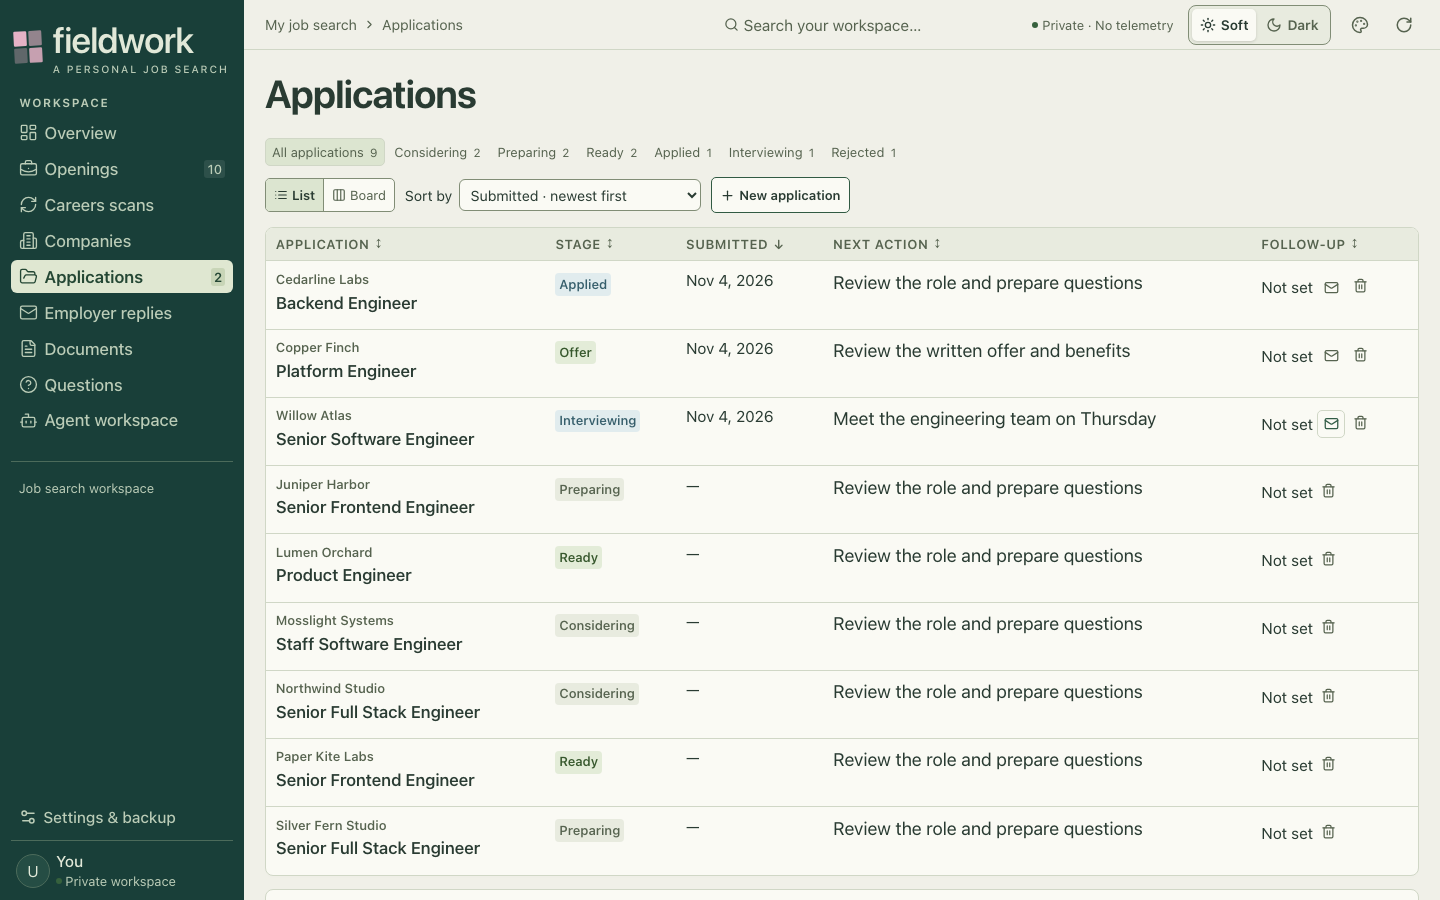
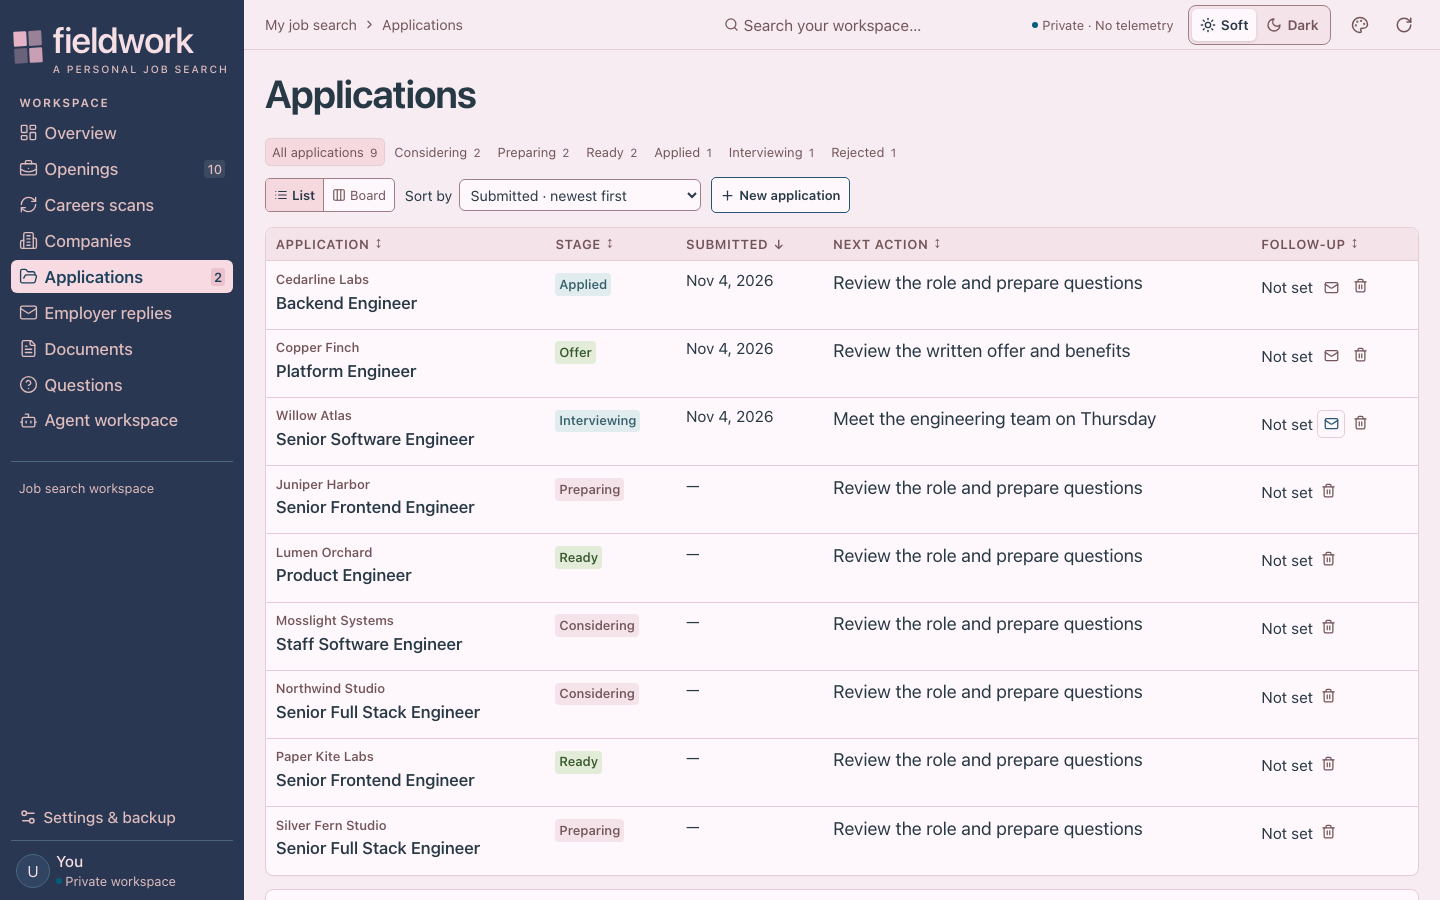
Add the MIT license; show the demo in the Rosewood Slate theme
The project is now MIT licensed. The demo seeds the author's own saved
theme as its active palette, and the README screenshots were retaken in it.

Changed region(s): [[0.0, 0.0, 0.2812, 1.0]]

diff --git a/platform/app/scripts/demo-seed.ts b/platform/app/scripts/demo-seed.ts
@@ -1,3 +1,4 @@
+import { readSavedPalette, readSavedThemes } from "../shared/palette.js";
 import { seedDemoAutofill } from "./demo-autofill.js";
 import { captureGreenhousePolicy } from "../server/opening-pull/policy.js";
 import {
@@ -54,10 +55,27 @@ const stages: ApplicationStatus[] = [
 ];
 
 /** All records, document bytes and dates are synthetic; no live adapters are used. */
+/** The owner's own saved theme, shown in the demo and the README screenshots. */
+export const demoTheme = {
+  id: "rosewood-slate",
+  name: "Rosewood Slate",
+  knobs: { hueNeutral: 360, hueBrand: 240, hueAccent: 70, chroma: 1.15 },
+};
+
 export async function seedDemo(store: Store, date = new Date()) {
   const at = (days: number) =>
     new Date(date.getTime() - days * 86400000).toISOString();
   const today = at(0);
+  const theme = demoTheme;
+  store.put("settings", "main", {
+    ...store.settings(),
+    palette: readSavedPalette({
+      id: theme.id,
+      knobs: theme.knobs,
+      revision: 1,
+    }),
+    themes: readSavedThemes({ items: [theme], revision: 1 }),
+  });
   seedOpenings(store, at);
   seedMaterials(store, today);
   seedMaterials(store, at(4), 5, "Willow Atlas");

diff --git a/platform/app/tests/demo.test.ts b/platform/app/tests/demo.test.ts
@@ -1,4 +1,6 @@
 import assert from "node:assert/strict";
+import { paletteSaveProblem, themeSaveProblem } from "../shared/palette.js";
+import { demoTheme } from "../scripts/demo-seed.js";
 import { readFileSync, rmSync, mkdtempSync, writeFileSync } from "node:fs";
 import net from "node:net";
 import os from "node:os";
@@ -71,6 +73,18 @@ test("demo is synthetic, read-only, integration-free and refuses companion/non-l
     );
     assert.equal(gmail.connected, false);
     assert.equal(gmail.checking, false);
+    const theme = demoTheme;
+    assert.deepEqual(state.settings.palette, {
+      id: theme.id,
+      knobs: theme.knobs,
+      revision: 1,
+    });
+    assert.deepEqual(state.settings.themes, { items: [theme], revision: 1 });
+    assert.equal(themeSaveProblem(theme), undefined);
+    assert.equal(
+      paletteSaveProblem(state.settings.palette, state.settings.themes.items),
+      undefined,
+    );
     assert.equal(state.greenhousePull.added, 5);
     assert.equal(state.greenhousePull.status, "paused");
     assert.equal(state.greenhousePull.policy.legacy, undefined);

diff --git a/platform/docs/screenshots/README.md b/platform/docs/screenshots/README.md
@@ -1,6 +1,6 @@
 # Screenshots
 
-All applicant, company, job, conversation, email and document data is synthetic, generated by `npm run demo`. Recaptured on 2026-11-08 (2026-11-08T23:17:44.696Z) at 1440×900 (desktop) and 390×844 (phone), at CSS/device scale 1 to keep the PNGs small. Dates are relative to each demo run.
+All applicant, company, job, conversation, email and document data is synthetic, generated by `npm run demo`. Recaptured on 2026-11-09 (2026-11-09T00:43:45.847Z) at 1440×900 (desktop) and 390×844 (phone), at CSS/device scale 1 to keep the PNGs small. All views use the saved Rosewood Slate theme (neutral hue 360, brand hue 240, focus hue 70, color intensity 1.15), in the Soft/Dark modes shown. Dates are relative to each demo run.
 
 From `platform/`, run `npm run demo` and open the loopback URL it prints. The demo uses disposable `.local/dev/demo-*/` sources and SQLite data; it never opens a personal database or the companion. It is read-only: agents, model discovery, sending, scheduled integrations and workflow starts are disabled. Theme mode and preview still work locally. The demo shell disables external links and window opening; the backend rejects external sockets and the companion port. Hosted-board URLs use a standard Greenhouse host with the deliberately fictional `northwindexample` board token so the normal Autofill filter and controls are exercised; no live board is consulted. The listing pull is intentionally paused with saved progress, not executing a search. The saved autofill artifact is produced by the real planner from in-memory synthetic form responses; it is not evidence of a real employer form-fill run. Its board token is deliberately fictional.
 

diff --git a/README.md b/README.md
@@ -86,4 +86,4 @@ Fieldwork is designed for one user and is not a hosted product. Agent and Gmail 
 
 ## License
 
-No license has been chosen yet; all rights reserved.
+This project is licensed under the [MIT License](LICENSE).
